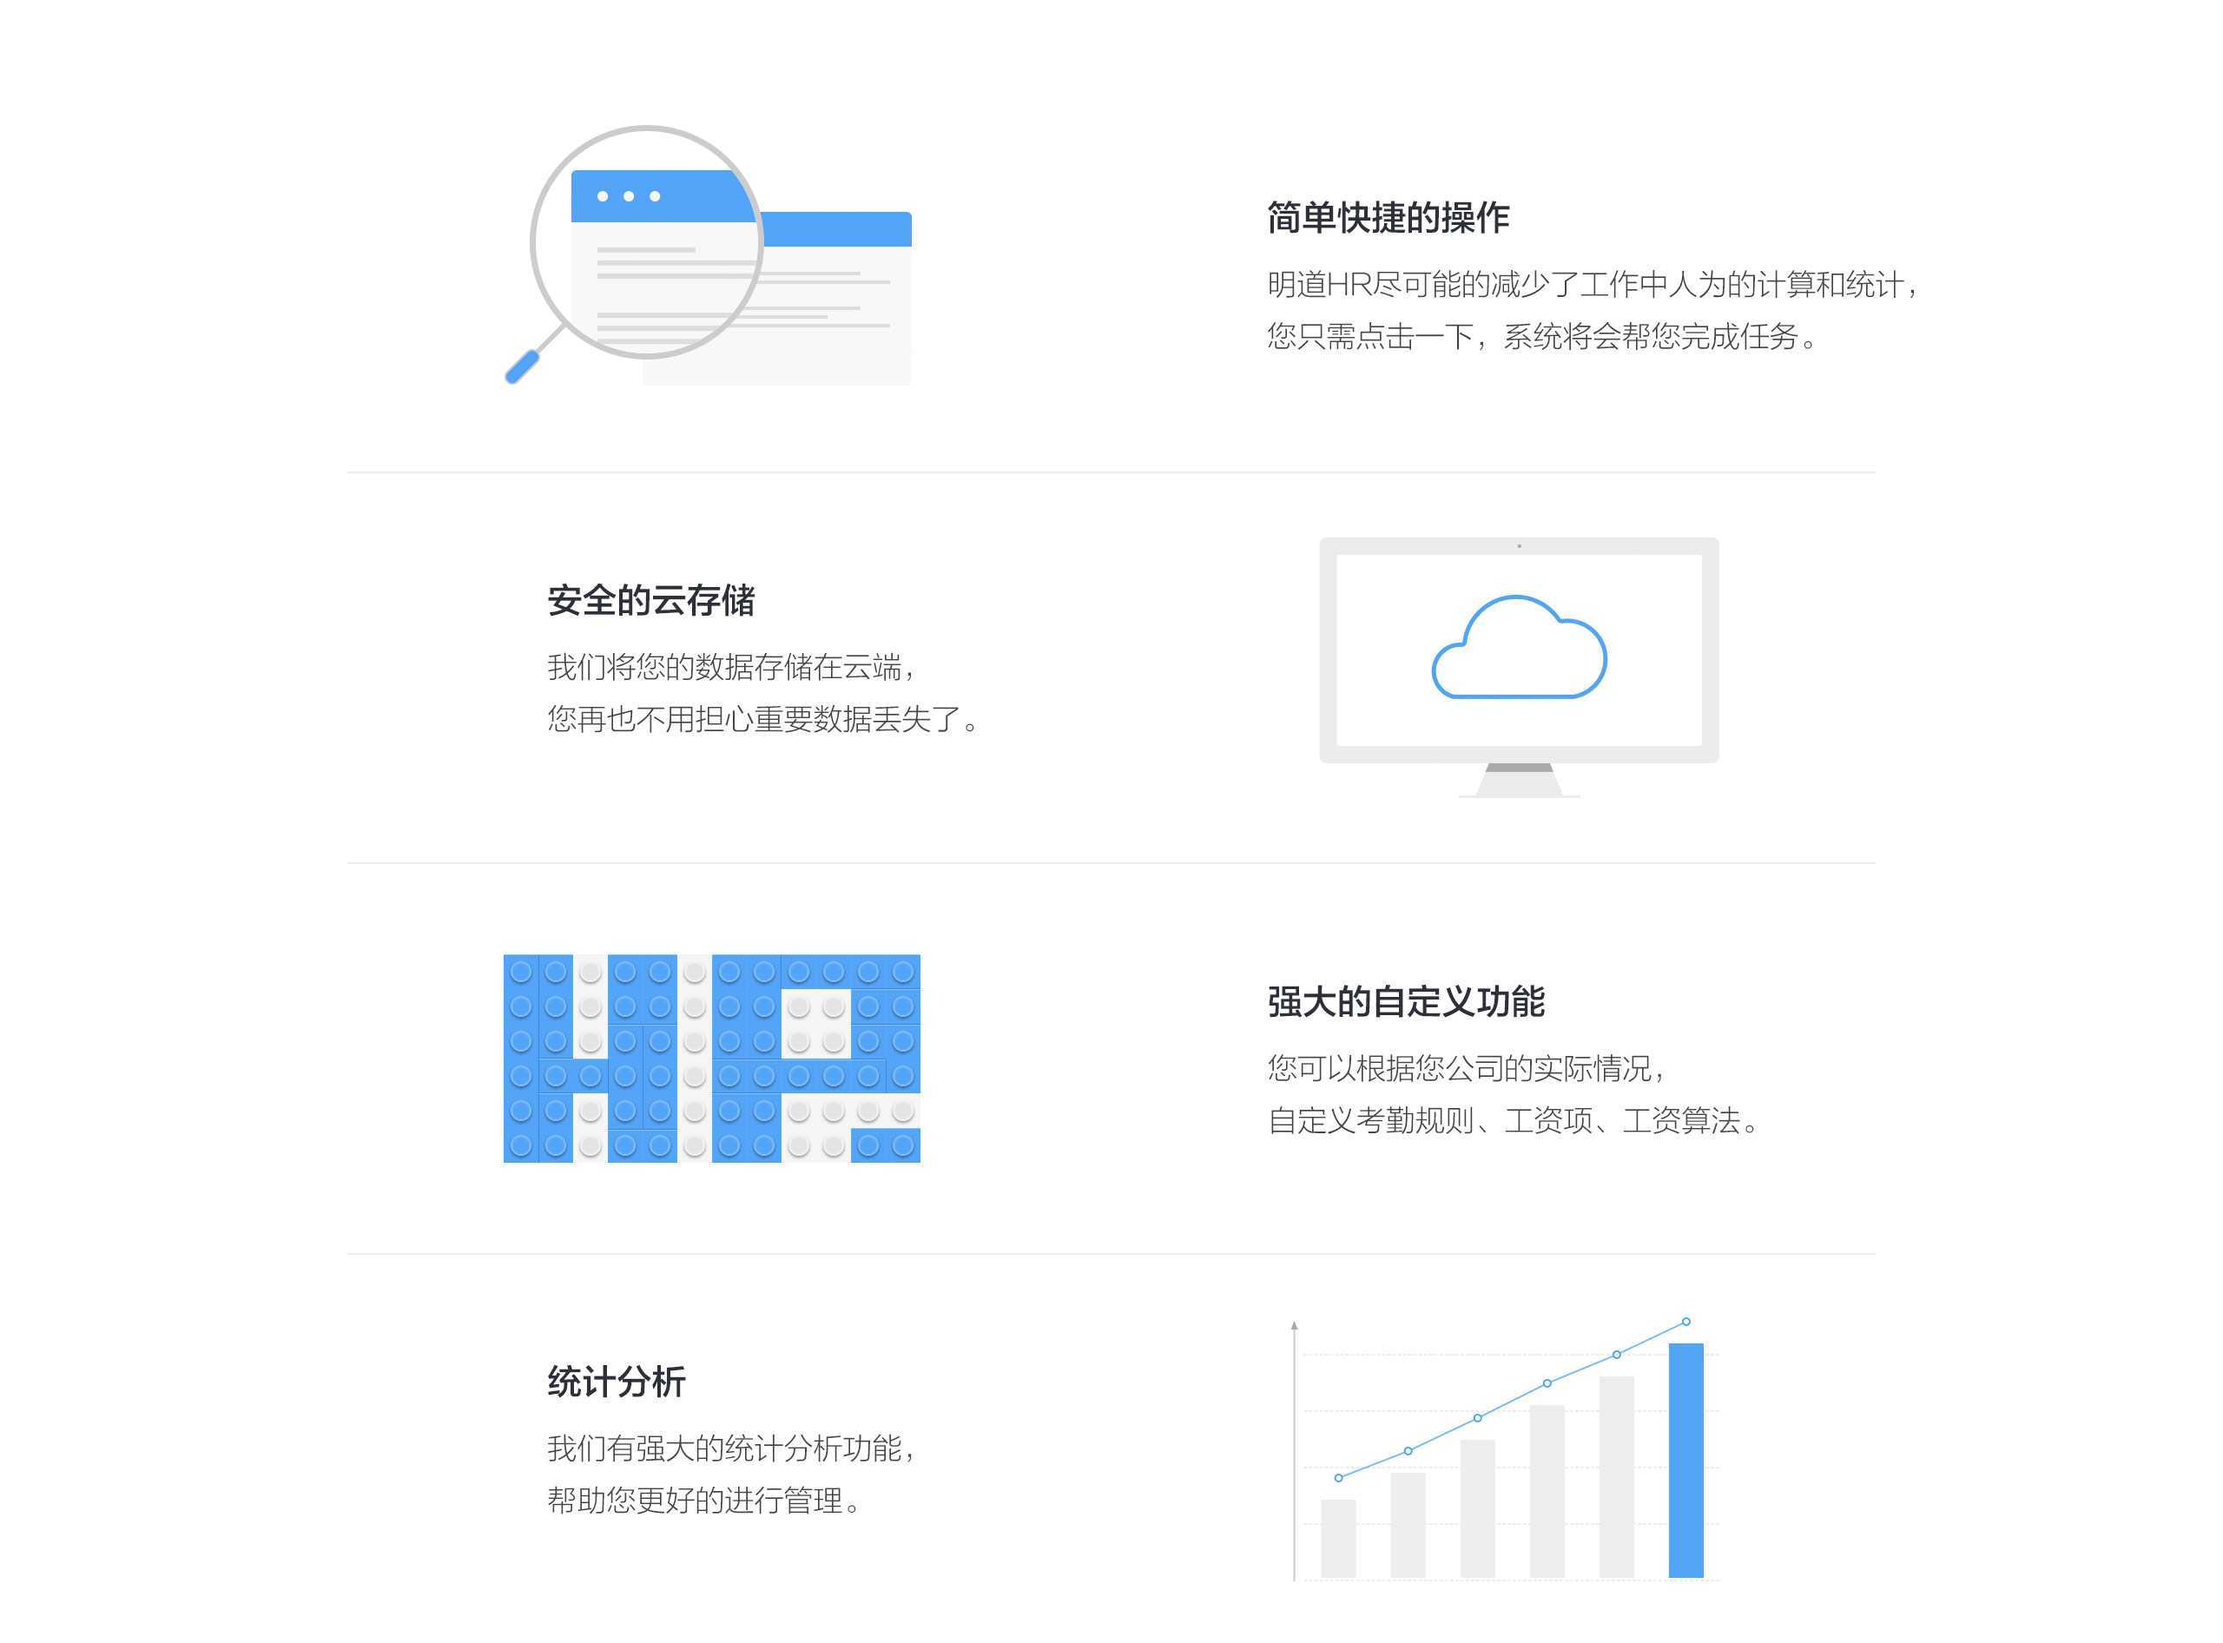
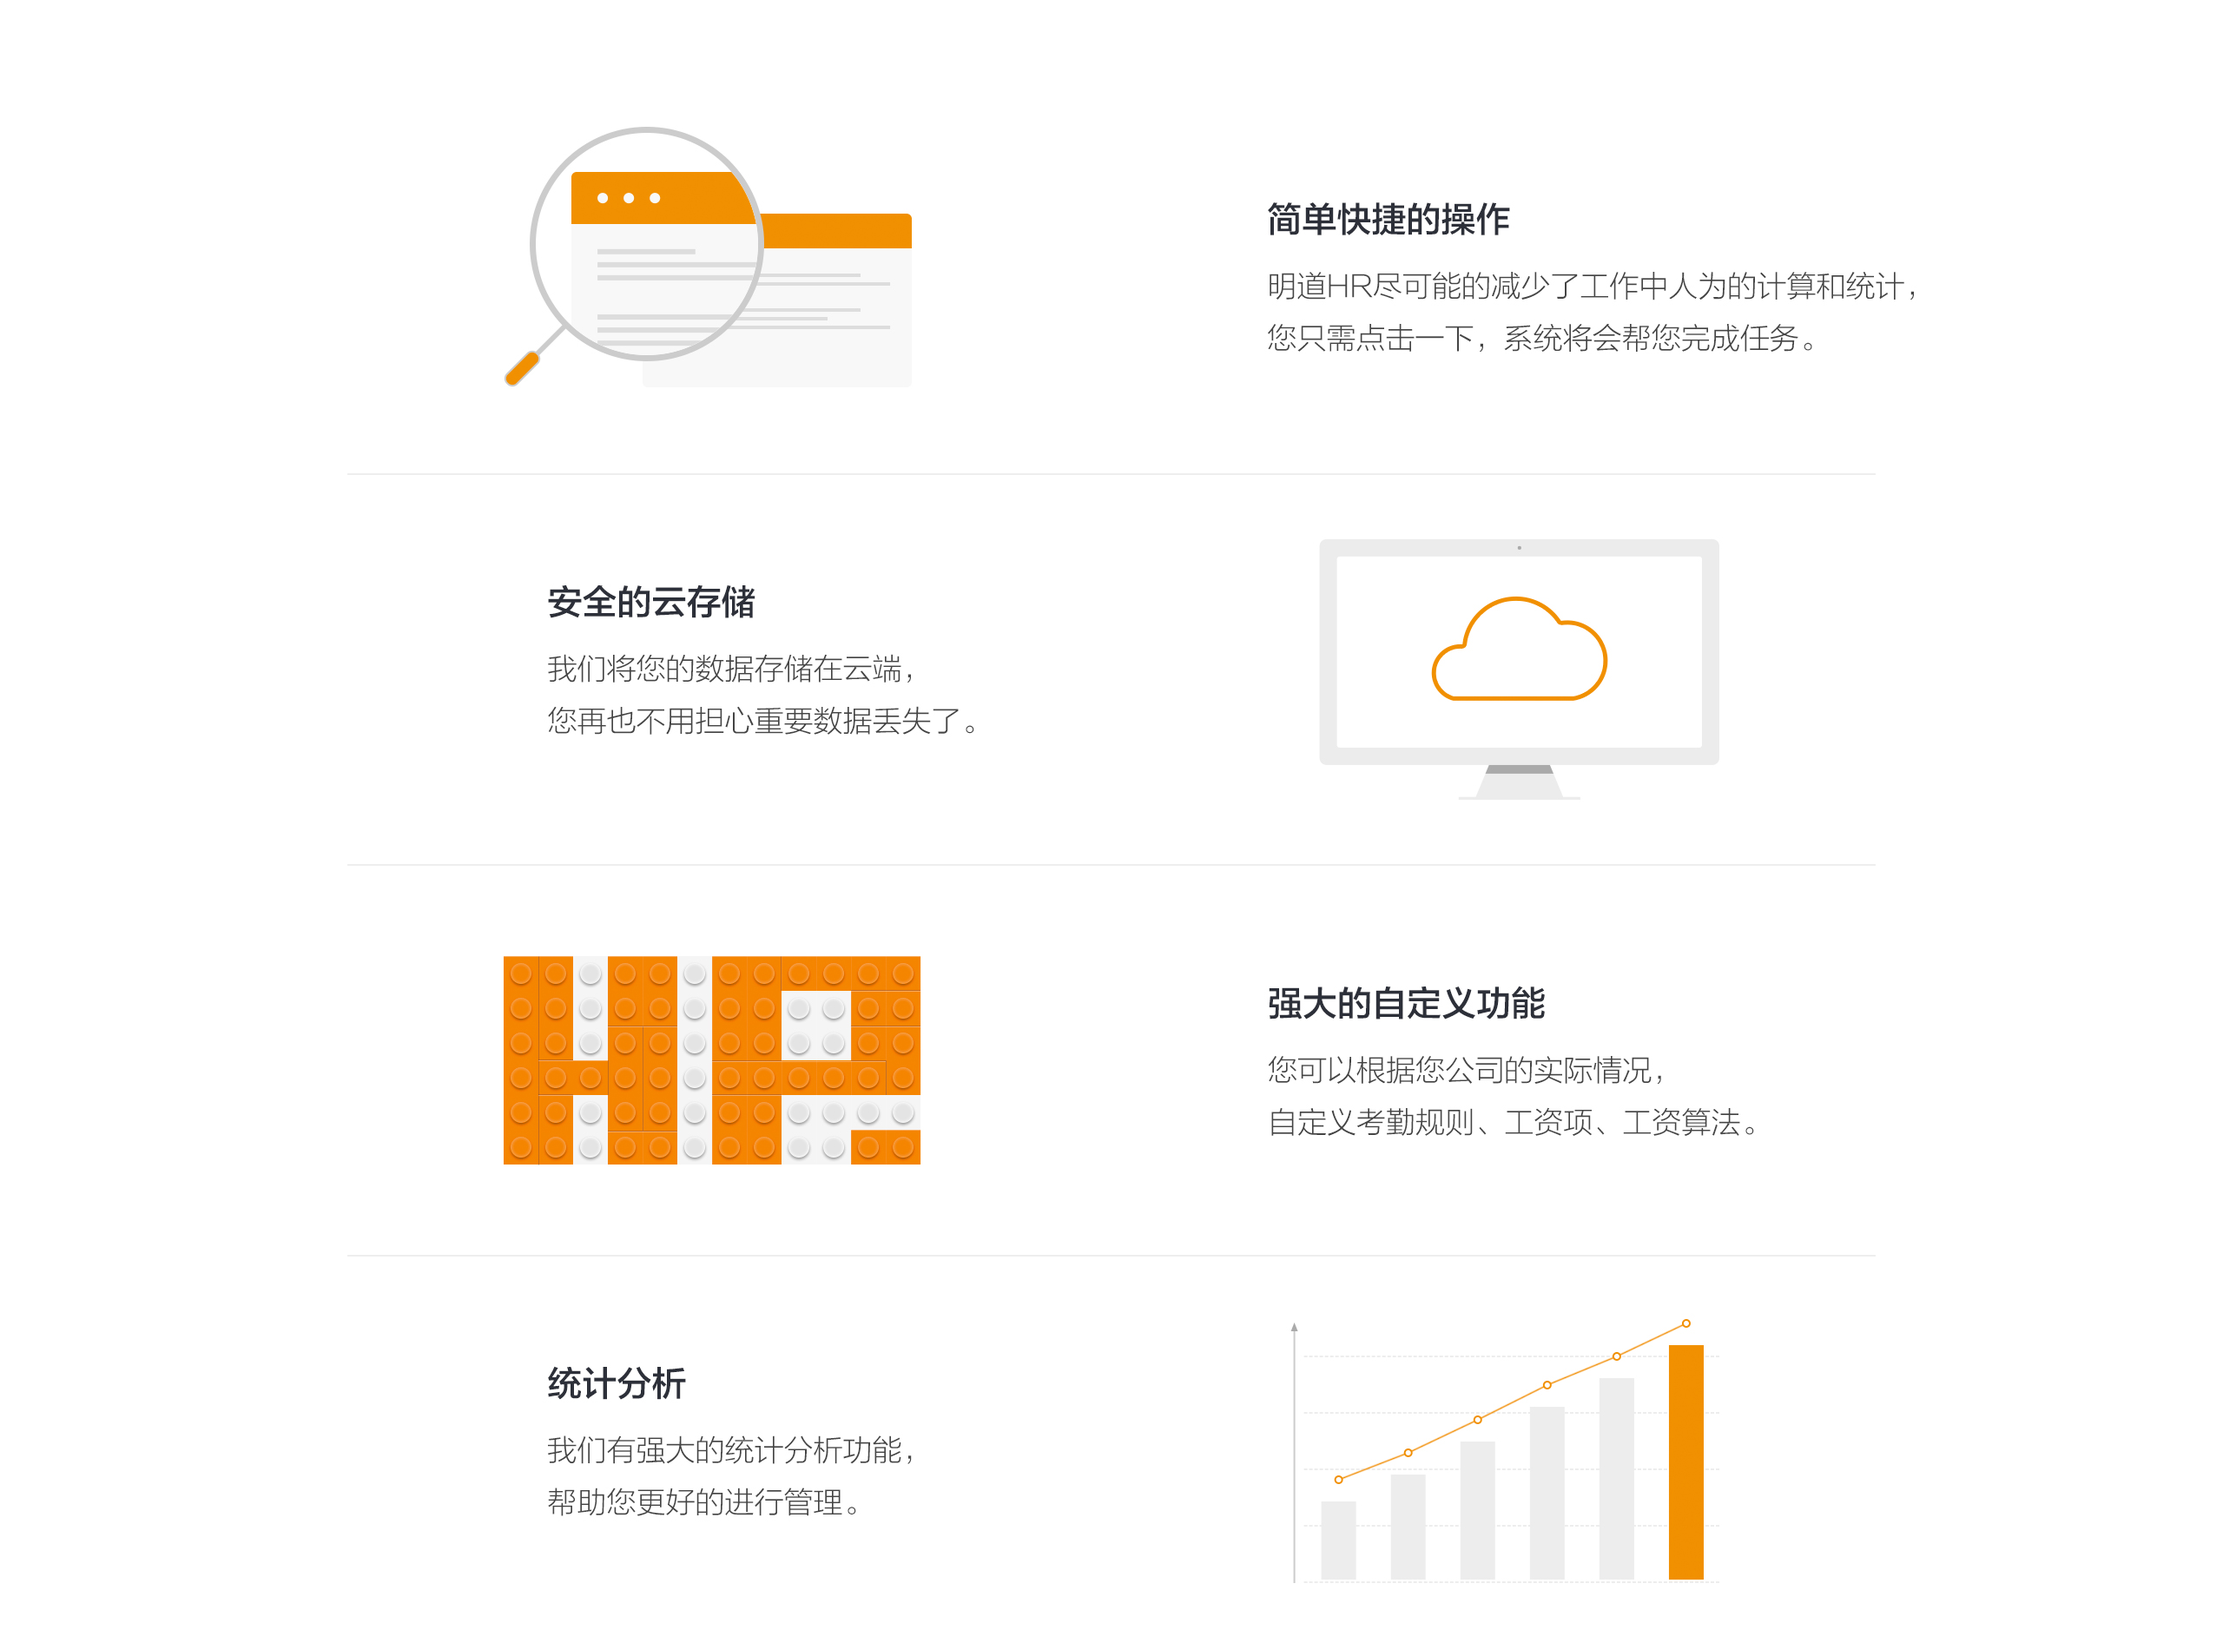
css img

diff --git a/css/appstyle.css b/css/appstyle.css
@@ -1,11 +1,12 @@
 /*header footer*/
 body{overflow-y:auto;min-width:1000px;}
-.header{width:100%;height:60px;position:fixed;left:0;top:0;z-index:50;background:url("../img/mask50.png") repeat;z-index:100;}
+.header{width:100%;height:60px;position:fixed;left:0;top:0;z-index:50;background:#2c2b29;z-index:100;}
+.nav{position: absolute;width:452px;left:50%;margin-left:-226px;}
 .nav li{float: left;}
-.nav li a{display: block;height:60px;line-height:60px;color:#fff;padding:0 20px;}
-.nav li a:hover,.nav li.current a{background: url("../img/mask15.png") repeat;}
-.btn{display: inline-block;width:100px;height:28px;line-height:28px;margin:17px 20px 0 0;border:1px solid #fff;border-radius:2px;color: #fff;text-align: center;}
-.login{color:#6be771;border-color:#6be771;}
+.nav li a{display: block;height:54px;line-height:54px;color:#fff;padding:0 20px;}
+.nav li a:hover,.nav li.current a{color:#ef901b;border-bottom: 6px solid #ef901b;}
+.btn{display: inline-block;width:100px;height:28px;line-height:28px;margin:17px 20px 0 0;background:#2d8eed;border-radius:2px;color: #fff;text-align: center;}
+.login{background: #f0901e;}
 .btn:hover{opacity:0.9;transition:0.2s;}
 .dot_list{width:10px;height:100px;position:fixed;top:50%;margin-top:-50px;right:20px;z-index:50;}
 .dot_list li{display: block;height:25px;line-height:25px;text-align: center;cursor: pointer;}
@@ -44,17 +45,17 @@ body{overflow-y:auto;min-width:1000px;}
 .Wallpaper{position:absolute;top:0;bottom:0px;left:0;right:0;}
 .autoImg{position:relative;overflow: hidden;z-index: -1;}
 .slogan{width:30%;position: absolute;left:50%;margin-left:-15%;z-index:20;top:25%;}
-.slogan p img{width:70%;}
+.slogan p img{width:60%;}
 .slogan p .btn{width:40%;height:40px;line-height:40px;margin:0 10px;margin-top:20%;}
 .login_box,.choose_net{width:300px;margin:0 auto;height:330px;position: fixed;top:50%;left:50%;margin:-170px 0 0 -190px;padding:20px 40px;background:#fff;box-shadow:0 0 3px #000;}
-.login_box{width:340px;height:290px;padding:20px;z-index:100;}
+.login_box{width:340px;height:350px;padding:20px;z-index:100;}
 .loginIn{border:1px solid #ddd;}
 .login_box label input{vertical-align:middle;}
 .Int{margin:0 10px;height:49px;position: relative;border-bottom:1px solid #ddd;}
 .Int .error_txt{display:block;width:100%;height:45px;line-height:45px;position: absolute;right:0;top:0;text-align: right;font-size: 13px;display: none;padding-right:10px;}
 .Int input{height:49px;line-height:49px;width: 100%;font-size: 14px;text-indent:10px;border:0;outline: 0;color:#888;}
 .Int.has-error .error_txt{height:49px;line-height:49px;display: block;color:#e41010;background:#fff;z-index:2;}
-.login_btn{display: block;height:45px;line-height:45px;background:#59a7f9;color:#fff;border-radius:3px;transition:0.2s;
+.login_btn{display: block;height:45px;line-height:45px;background:#ef901b;color:#fff;border-radius:3px;transition:0.2s;
     position: relative;}
 .login_btn:hover{opacity:0.9;}
 .login_ok span,.login_btn img{display: none;}

diff --git a/login.html b/login.html
@@ -55,13 +55,13 @@
     <!--<a href="#" class="login_btn login_quit aligncenter font14 mart15"><span>取 消</span></a>-->
 </div>
 <!--通知状态条begin-->
-<div class="message_box" style="display:;">
+<div class="message_box" style="display:none;">
     <div class="message aligncenter" style="display:none;"><p class="font14 color-white ie-css3"><i class="icon-check2"></i>通讯录刷新成功！</p></div><!--每次 fadeout 掉一个div-->
     <div class="message aligncenter message_waring" style="display:none;"><p class="font14 color-white ie-css3"><i class="icon-info font20"></i>请谨慎操作！</p></div><!--每次 fadeout 掉一个div-->
     <div class="message aligncenter message_error" style="display: ;"><p class="font14 color-white"><i class="icon-cross ie-css3"></i>操作失败！请您尝试重新操作！</p></div>
 </div>
 <!--通知状态条over-->
-<span class="loading aligncenter" style="display:;">
+<span class="loading aligncenter" style="display:none;">
     <img src="img/loading.gif"/><br>
     正在加载,请稍后再试...
 </span>
@@ -75,7 +75,7 @@
         <a href="#" class="btn floatright marr20">继 续</a>
     </p>
 </div>
-<div class="mask" style="display:block;"></div>
+<div class="mask" style="display:none;"></div>
 <script type="text/javascript" src="js/jquery.js"></script>
 <script type="text/javascript" src="js/show.js"></script>
 <script type="text/javascript" src="js/imgauto.js"></script>

diff --git a/home.html b/home.html
@@ -21,7 +21,7 @@
     <a href="" class="btn login">登录HR</a>
 </div>
 <div class="content">
-    <img src="img/login_bg.jpg" class="autoImg">
+    <img src="img/login_bg.png" class="autoImg">
     <!--首屏slogan begin-->
     <div class="slogan aligncenter">
         <p><img src="img/logo_slogan.png"></p>
@@ -36,6 +36,7 @@
     <div class="pageImg"><img src="img/html-3.jpg"></div>
     <div class="pageImg"><img src="img/html-4.jpg"></div>
     <div class="pageImg"><img src="img/html-5.jpg"></div>
+    <div class="pageImg"><img src="img/html-6.jpg"></div>
     <div class="footerIn aligncenter">
         <a href="#" class="font14 color-white">hr.mingdao.com</a>
         <span class="floatright"><img src="img/hr_logo_t.png"></span>
